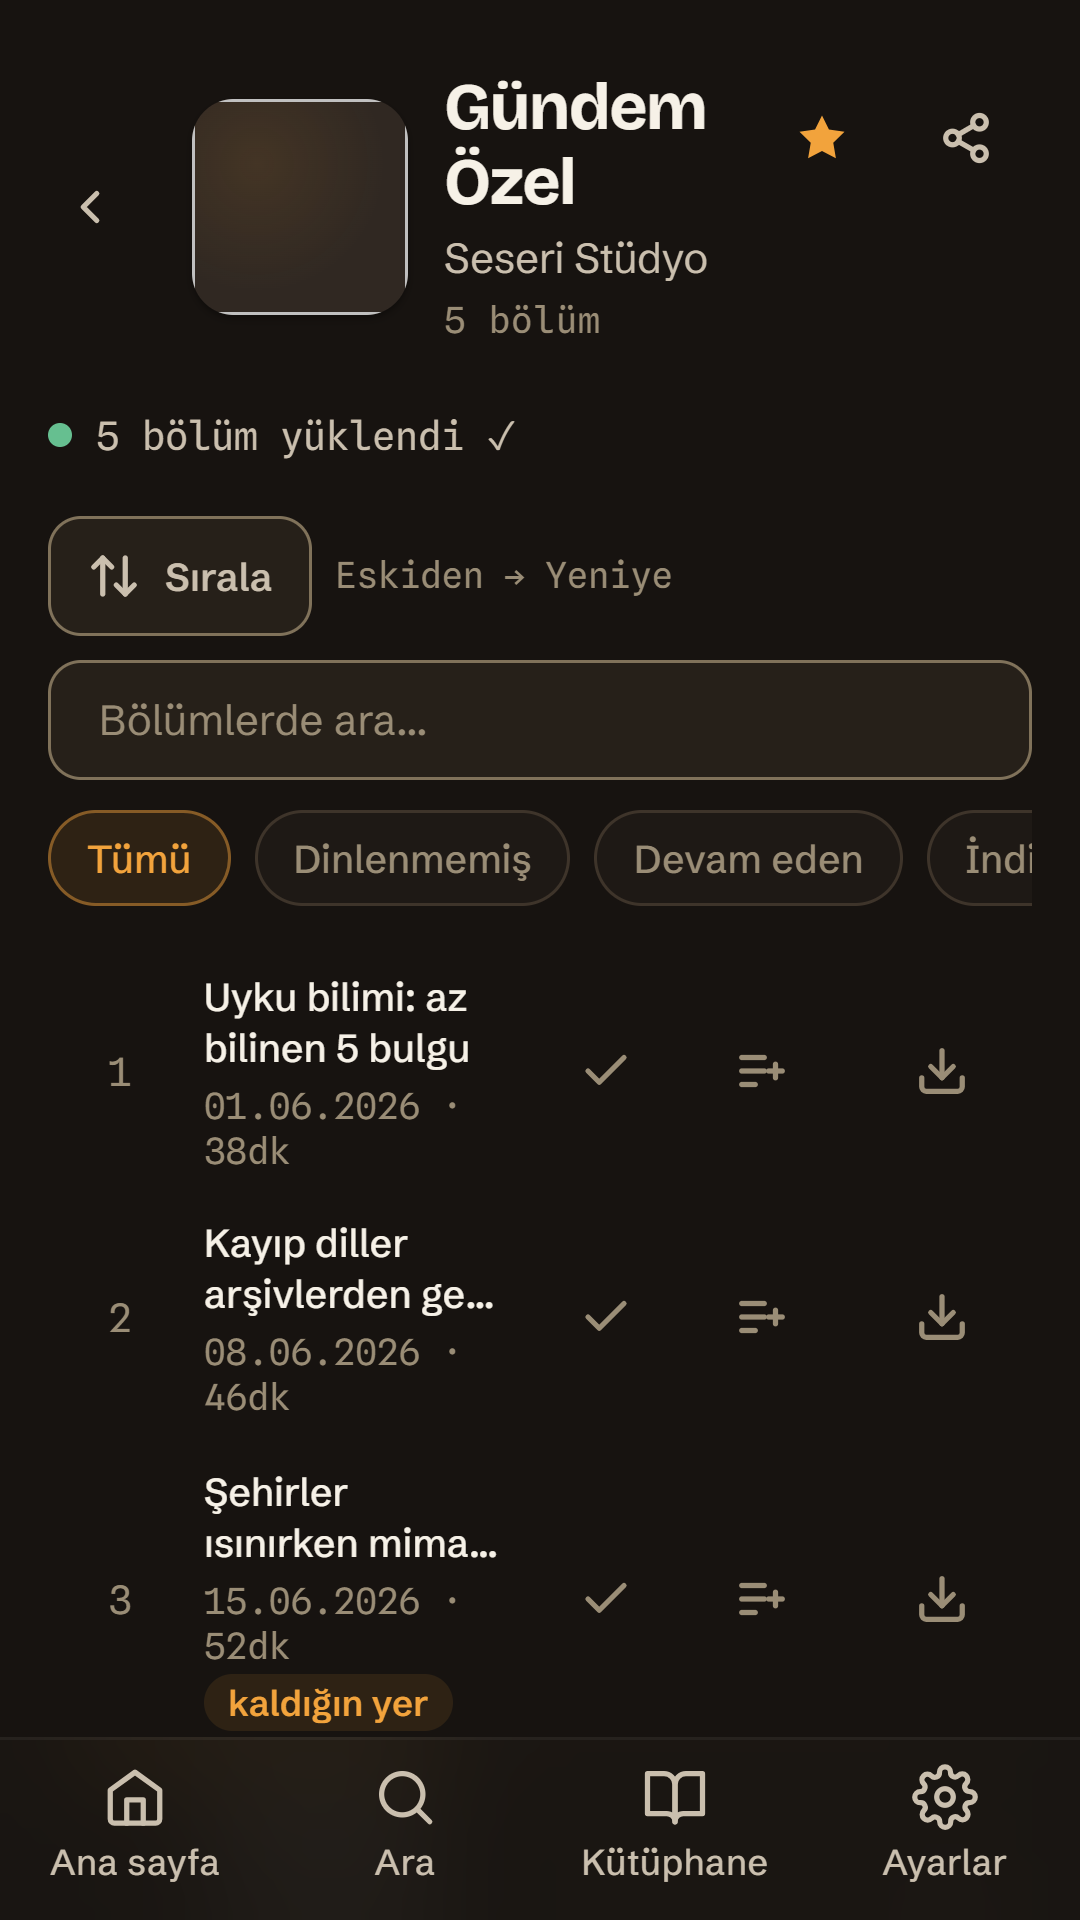
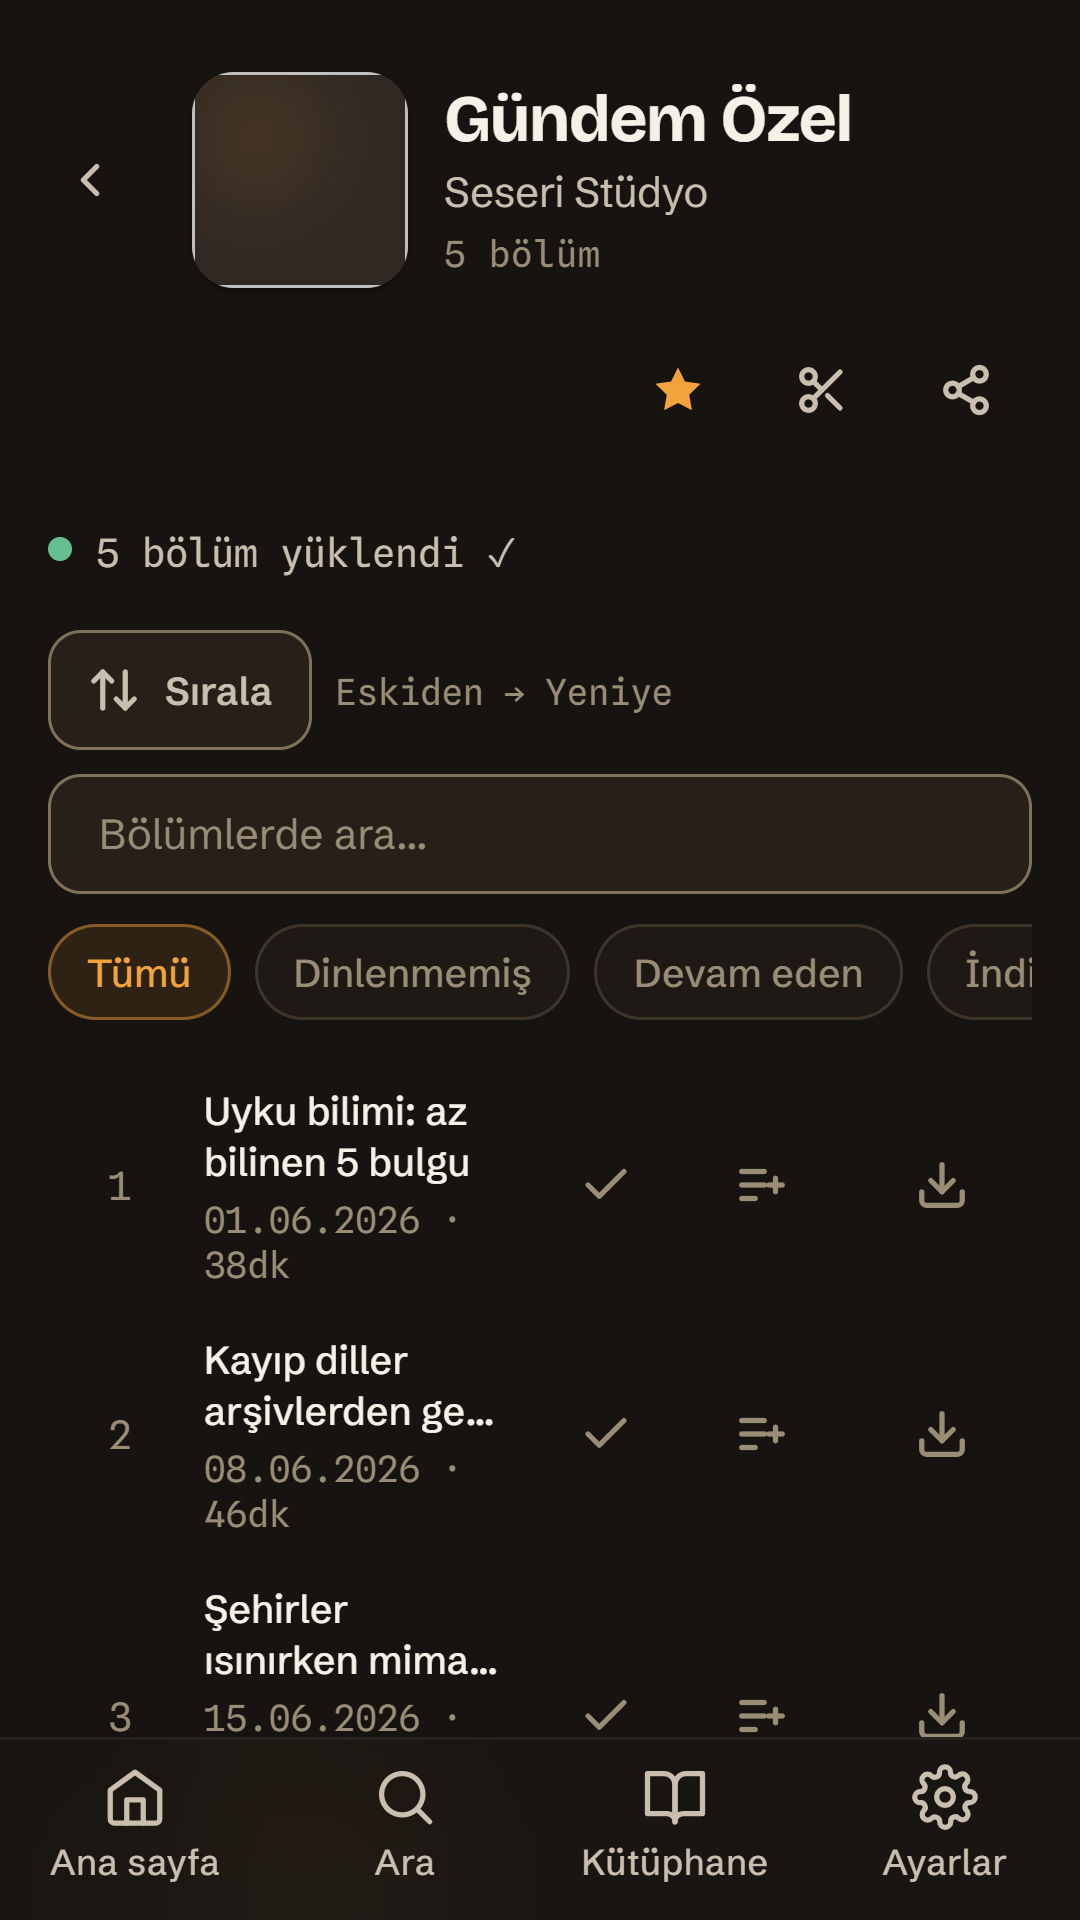
docs: intro and outro skip in the README, test plan and screenshots
Both README languages gain the feature row, TESTPLAN gets §21b, and the
feed and settings screenshots (docs and the manifest's install shots)
are regenerated for the new header button and settings row.

diff --git a/README.md b/README.md
@@ -52,6 +52,7 @@ desktop, plus a full-screen **Now Playing** sheet.
 | **Now Playing sheet** | full-screen at every size: play/pause, prev/next, skip, speed 0.5×–2.5×, volume, sleep timer, episode notes, chapters, transcript — around a drag-to-seek waveform |
 | **Episode links** | share a link that opens on that episode, and from Now Playing at the moment you are at |
 | **Per-show speed** | a show can play at its own speed instead of the default; Settings lists the ones that do and resets them |
+| **Skip intro and outro** | per show, from the scissors on its page: every episode starts past the opening jingle and finishes before the closing credits, then the queue or the next episode carries on. A seek into the credits plays them; very short episodes play whole |
 | **Sleep timer** | presets or any duration, or stop at the end of the episode; live countdown, **+5 min**, gentle fade-out, pauses with playback and survives a reload |
 | **Sharp artwork** | each surface requests the right rendition, so covers are never upscaled from a thumbnail; the Now Playing background can take the cover's dominant colour |
 | **Volume** | a slider in Now Playing on every device, and in the dock from 1024px up; mute keeps the level you chose. Hidden on iOS, where the page may not set it |
@@ -220,7 +221,7 @@ checklist is [docs/TESTPLAN.md](docs/TESTPLAN.md).
 │   │                      # archive paging, Apple→feed id remap, new episodes, show notes
 │   ├── player/            # audio engine, recovery, prefetch, downloads, chapters,
 │   │                      # transcripts, sleep timer, media session
-│   ├── state/             # signals: settings, queue, per-show speed, sleep timer
+│   ├── state/             # signals: settings, queue, per-show speed and trims, sleep timer
 │   ├── storage/           # localStorage keys, IndexedDB, OPML, backup
 │   ├── sync/              # pairing code, encryption, merge, transport
 │   ├── ui/                # views, router, playback controller, shell and widgets
@@ -287,6 +288,7 @@ paneli var.
 | **Şimdi Çalıyor paneli** | her ekran boyutunda tam ekran: oynat/duraklat, önceki/sonraki, atlama, 0.5×–2.5× hız, ses düzeyi, uyku zamanlayıcısı, bölüm notları, bölüm işaretleri, konuşma metni — sürüklenerek sarılan bir dalga-formun çevresinde |
 | **Bölüm linkleri** | o bölümü açan bir link paylaş; Şimdi Çalıyor'dan paylaşırsan bulunduğun andan açılır |
 | **Yayın başına hız** | bir yayın varsayılan hız yerine kendi hızıyla çalabilir; Ayarlar bunları listeler ve sıfırlar |
+| **Giriş ve kapanışı atla** | yayının sayfasındaki makas simgesinden, yayın başına: her bölüm açılış müziğinin ardından başlar, kapanış jeneriğinden önce biter, sonra sıra ya da sonraki bölüm devam eder. Jeneriğe elle sararsan çalar; çok kısa bölümler baştan sona çalar |
 | **Uyku zamanlayıcısı** | hazır süreler ya da istediğin süre, veya bölüm sonunda dur; canlı geri sayım, **+5 dk**, sesi yavaşça kısarak kapanma; duraklatınca durur, sayfa yenilenince kaybolmaz |
 | **Net kapak görselleri** | her yüzey doğru çözünürlüğü ister, kapak küçük bir görselden büyütülmez; Şimdi Çalıyor arka planı kapağın baskın rengini alabilir |
 | **Ses düzeyi** | her cihazda Şimdi Çalıyor'da, 1024px'ten itibaren alttaki çubukta da bir sürgü; sessize almak seçtiğin seviyeyi korur. iOS'ta gizlidir, orada sayfanın sesi ayarlamasına izin verilmez |
@@ -456,7 +458,7 @@ listesi [docs/TESTPLAN.md](docs/TESTPLAN.md)'de.
 │   │                      # archive paging, Apple→feed id remap, new episodes, show notes
 │   ├── player/            # audio engine, recovery, prefetch, downloads, chapters,
 │   │                      # transcripts, sleep timer, media session
-│   ├── state/             # signals: settings, queue, per-show speed, sleep timer
+│   ├── state/             # signals: settings, queue, per-show speed and trims, sleep timer
 │   ├── storage/           # localStorage keys, IndexedDB, OPML, backup
 │   ├── sync/              # pairing code, encryption, merge, transport
 │   ├── ui/                # views, router, playback controller, shell and widgets

diff --git a/docs/TESTPLAN.md b/docs/TESTPLAN.md
@@ -390,6 +390,26 @@ opened from Apple move from Apple's ids to the feed's.
 - [ ] With the transcript open, open the same show from the list again (the feed
       refreshes) → the panel stays open and the text stays.
 
+## 21b. Skip intro and outro
+
+- [ ] The scissors in a show's header opens the dialog; both selects start at
+      **Off** for a show never set. A choice applies at once (no Save), and the
+      scissors turns amber and reads as pressed.
+- [ ] With an intro set, a **new** episode starts that many seconds in; one
+      resumed past the intro starts where it was left.
+- [ ] With an outro set, playing into the last N seconds ends the episode: it is
+      marked heard and the queue, auto-next or the end-of-episode sleep timer
+      takes over. With nothing next, the audio **stops** instead of playing the
+      credits.
+- [ ] Skipping or scrubbing **into** the outro plays it — the trim only acts on
+      playback that runs into it.
+- [ ] An episode shorter than intro + outro + one minute (a trailer) plays whole.
+- [ ] Settings → "Intro and outro skips" counts the shows; Reset clears them and
+      the scissors goes back to plain. The trims are in a JSON backup and come
+      back on restore.
+- [ ] At 320, 375 and 390px wide the three header actions sit on their own row
+      and the show title is not cut mid-word; from 404px they sit beside it.
+
 ## 22. Downloads, automatic downloads and clean-up
 
 - [ ] Starting a download shows a **real percentage** (not a spinner).
